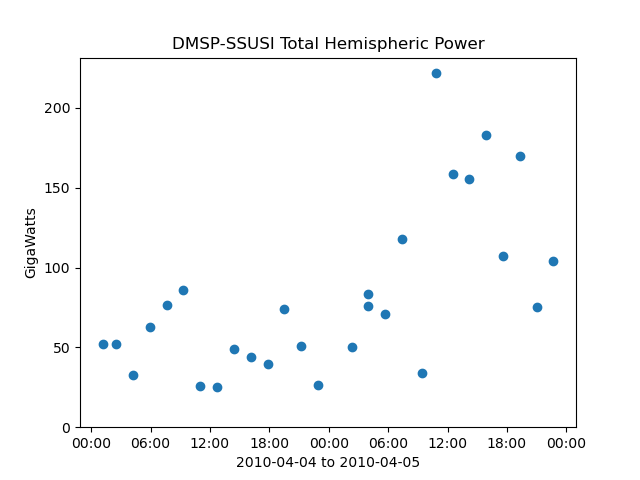
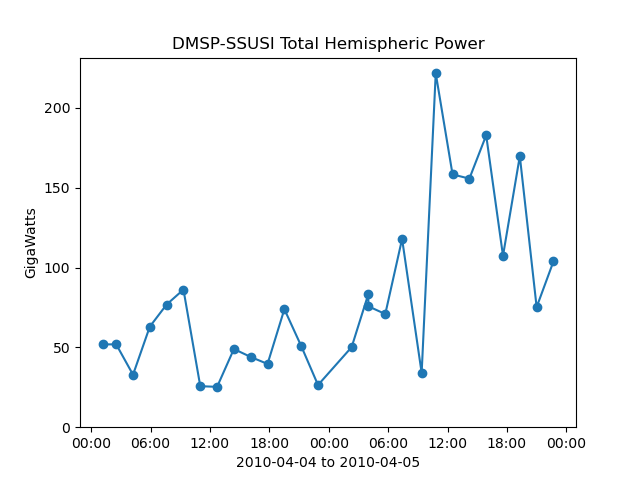
makes sure points are in chronological order, using pd.DataFrame sort

diff --git a/ssusi_energyplots.py b/ssusi_energyplots.py
@@ -67,15 +67,18 @@ def main():
             HPI['hpi'].append(data_point/2)
 
 
-    print(HPI)
+    HPI_df = pd.DataFrame.from_dict(HPI)
+    HPI_df = HPI_df.sort_values(by='time') # sort chronologically
+
+    print(HPI_df)
 
     fig, ax = plt.subplots()
-    ax.plot(HPI['time'], HPI['hpi'],'o-')
+    ax.plot(HPI_df['time'], HPI_df['hpi'],'o-')
     ax.set_title('DMSP-SSUSI Total Hemispheric Power')
 
     ax.set_ylim(bottom=0.0)
     ax.set_ylabel('GigaWatts')
-    ax.set_xlabel(f'{HPI['time'][0].strftime('%Y-%m-%d')} to {HPI['time'][-1].strftime('%Y-%m-%d')}')
+    ax.set_xlabel(f'{HPI_df['time'][0].strftime('%Y-%m-%d')} to {HPI_df['time'][HPI_df.index[-1]].strftime('%Y-%m-%d')}')
     ax.xaxis.set_major_formatter(mpl.dates.DateFormatter("%H:%M"))
 
     plt.savefig('HPI.png')
